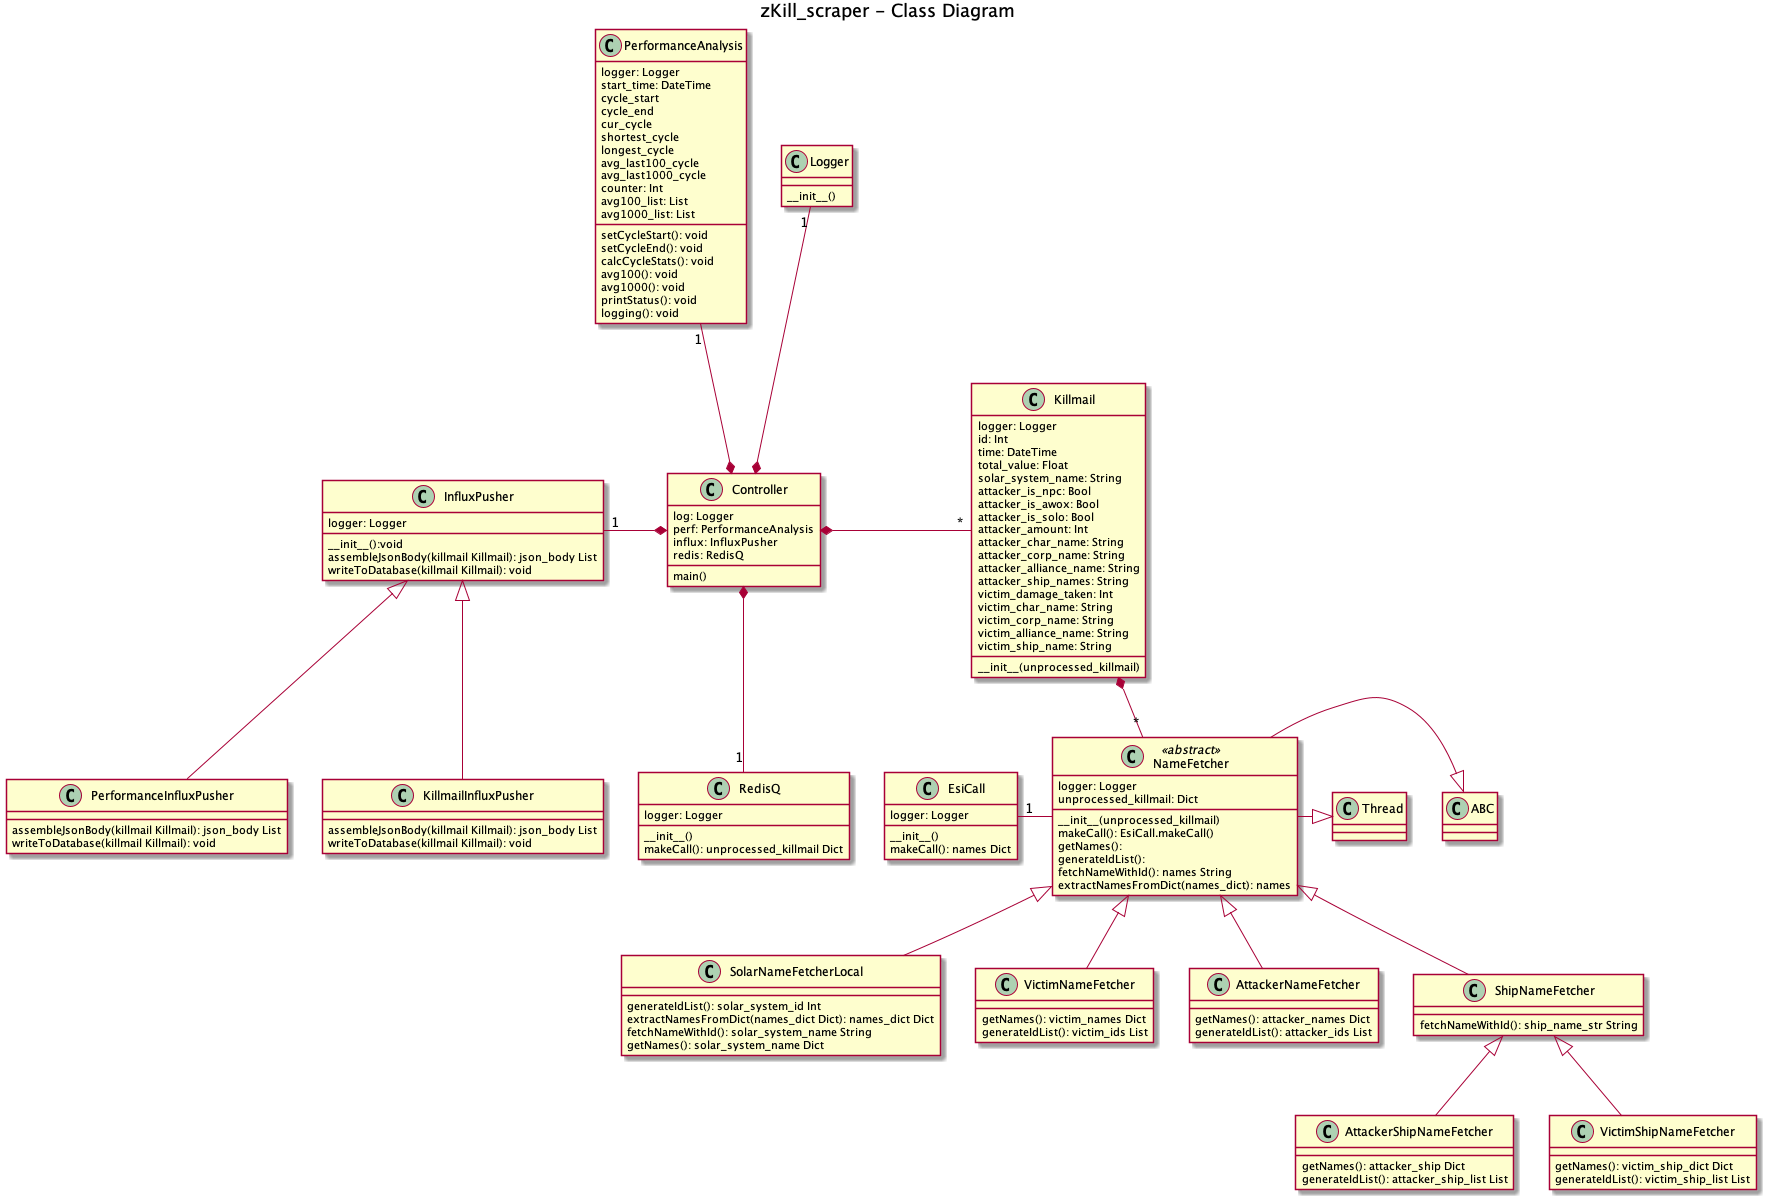
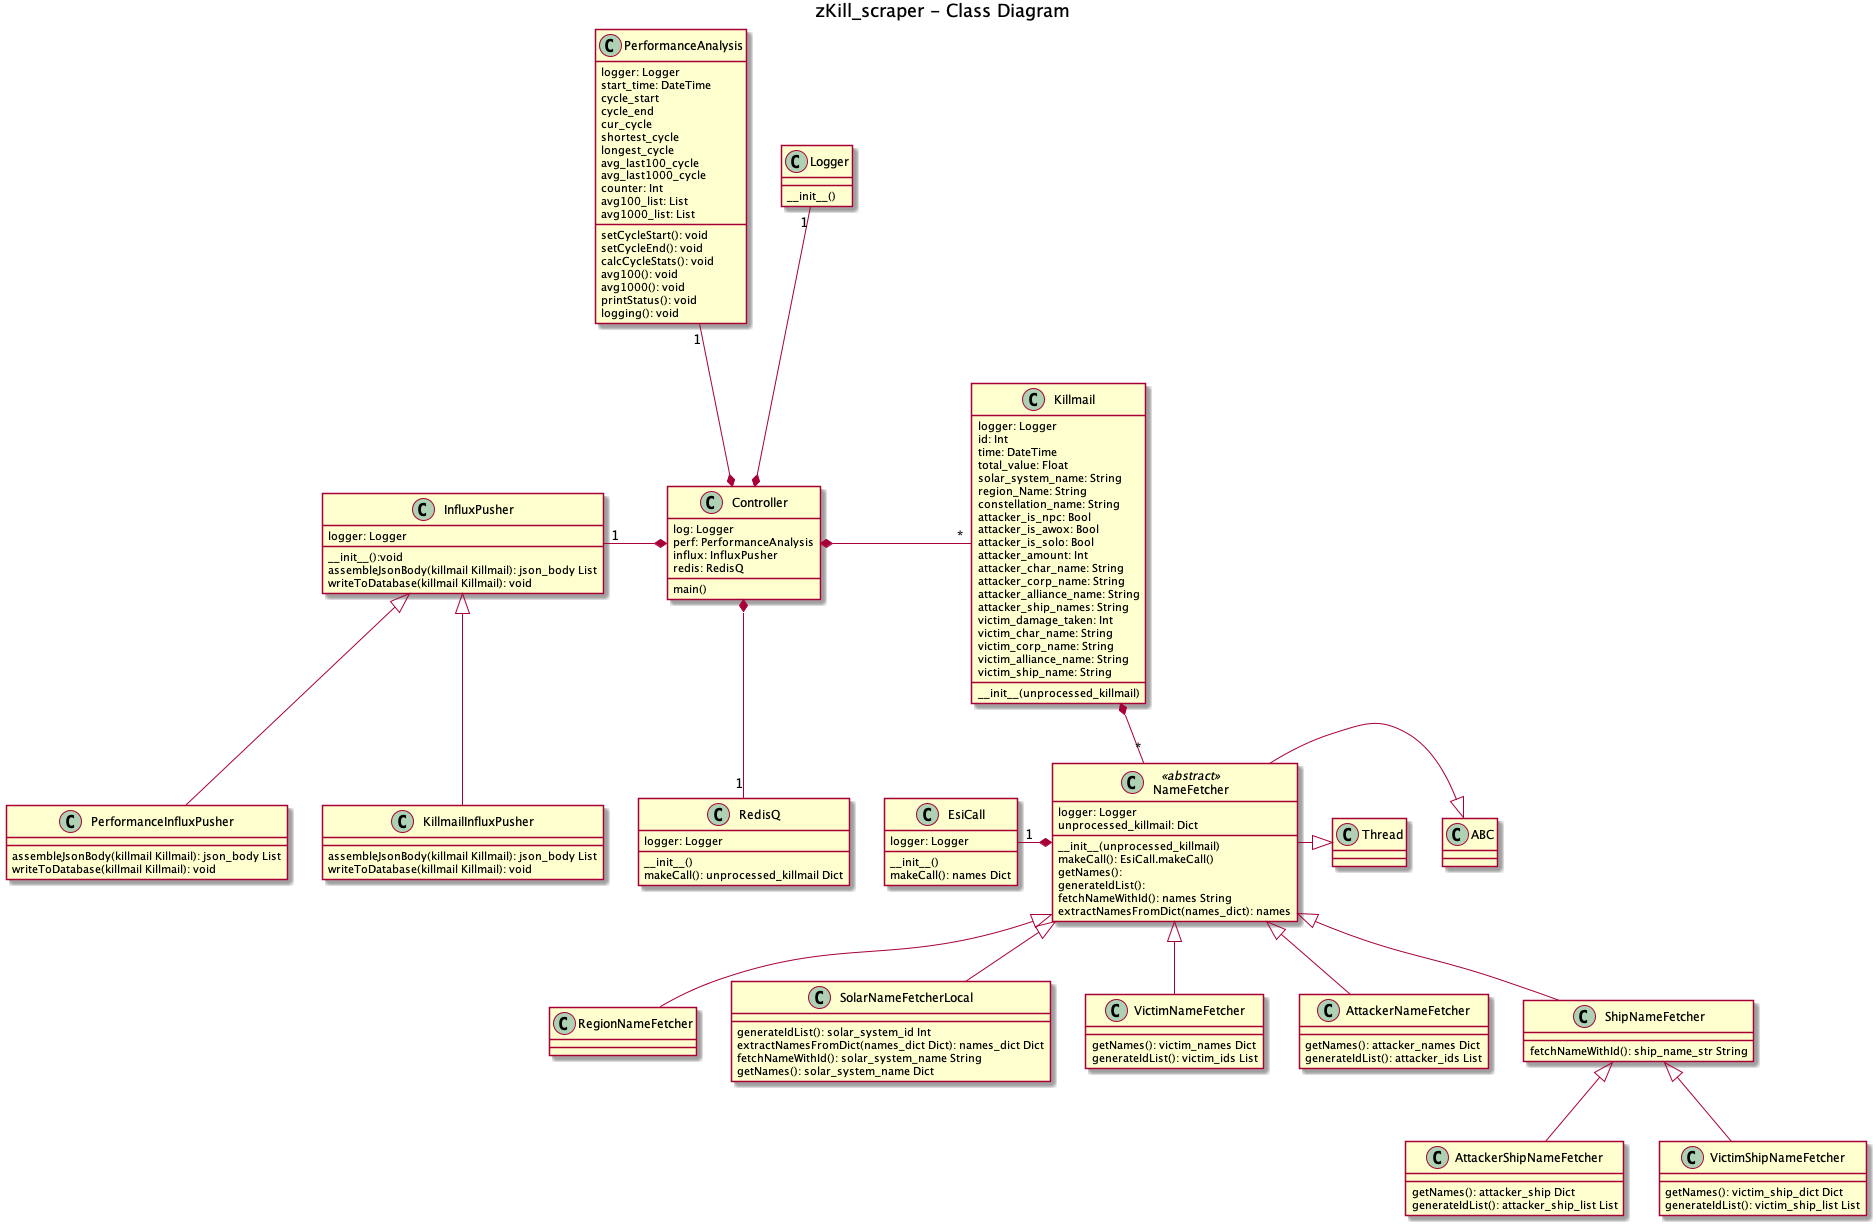
added region_name and constellation_name to Killmail object

diff --git a/killmail.py b/killmail.py
@@ -6,6 +6,7 @@ from attacker_name_fetcher import AttackerNameFetcher
 from victim_ship_name_fetcher import VictimShipNameFetcher
 from attacker_ship_name_fetcher import AttackerShipNameFetcher
 from solar_system_name_fetcher_local import SolarSystemNameFetcherLocal
+from region_name_fetcher import RegionNameFetcher
 
 
 
@@ -42,12 +43,14 @@ class Killmail:
         thread3 = Thread(name="victim_ship", target=lambda q, arg1: q.put(VictimShipNameFetcher(unprocessed_killmail).getNames()), args=(que, "a"))
         thread4 = Thread(name="victim_names", target=lambda q, arg1: q.put(VictimNameFetcher(unprocessed_killmail).getNames()), args=(que, "thread"))
         thread5 = Thread(name="solar_name", target=lambda q, arg1: q.put(SolarSystemNameFetcherLocal(unprocessed_killmail).getNames()), args=(que, "!"))
+        thread6 = Thread(name="region_name", target=lambda q, arg1: q.put(RegionNameFetcher(unprocessed_killmail).getNames()), args=(que, "?"))
 
         my_threads.append(thread1)
         my_threads.append(thread2)
         my_threads.append(thread3)
         my_threads.append(thread4)
         my_threads.append(thread5)
+        my_threads.append(thread6)
 
         for entry in my_threads:
             entry.start()
@@ -58,7 +61,7 @@ class Killmail:
             self.logger.debug("{} joined".format(entry))
 
         local_queue = []
-        for x in range(0, 5):
+        for x in range(0, 6):
             local_queue.append(que.get())
 
         self.logger.debug("local_queue: {}".format(local_queue))
@@ -76,6 +79,11 @@ class Killmail:
                 self.victim_names = entry["name"]
             if entry["category"] is "solar_name":
                 self.solar_system_name = entry["name"]
+            if entry["category"] is "region_name":
+                self.region_names = entry["name"]
+
+        self.region_name = self.region_names[0]["name"]
+        self.constellation_name = self.region_names[1]["name"]
 
         self.victim_char_name = self.victim_names["character"]
         self.victim_corp_name = self.victim_names["corporation"]
@@ -94,3 +102,5 @@ class Killmail:
         self.logger.info("Victim Char: {}, Corp: {}, Alli: {}".format(self.victim_char_name, self.victim_corp_name, self.victim_alliance_name))
         self.logger.info("Victim Ship: {}".format(self.victim_ship_name))
         self.logger.info("Solar Name: {}".format(self.solar_system_name))
+        self.logger.info("Region Name: {}".format(self.region_name))
+        self.logger.info("Constellation Name: {}".format(self.constellation_name))

diff --git a/region_name_fetcher.py b/region_name_fetcher.py
@@ -1,0 +1,25 @@
+from name_fetcher import NameFetcher
+import os
+import csv
+
+
+class RegionNameFetcher(NameFetcher):
+
+    def generateIdList(self):
+        region_id = ""
+        constellation_id = ""
+
+        filepath = os.path.dirname(__file__) + "/ressources/mapSolarSystems.csv"
+        with open(filepath, newline='') as f:
+            inv_types = csv.reader(f)
+            for row in inv_types:
+                if row[2] == str(self.unprocessed_killmail["package"]["killmail"]["solar_system_id"]):
+                    region_id = row[0]
+                    constellation_id = row[1]
+
+        return [region_id, constellation_id]
+
+    def getNames(self):
+        names_dict = self.fetchNameWithId()
+        names = {"category": "region_name", "name": names_dict}
+        return names

diff --git a/solar_system_name_fetcher_local.py b/solar_system_name_fetcher_local.py
@@ -5,9 +5,6 @@ import csv
 
 class SolarSystemNameFetcherLocal(NameFetcher):
 
-    def __init__(self, unprocessed_killmail):
-        NameFetcher.__init__(self, unprocessed_killmail)
-
     def generateIdList(self):
         solar_system_id = ""
 
@@ -27,7 +24,6 @@ class SolarSystemNameFetcherLocal(NameFetcher):
             for row in inv_types:
                 if row[2] == str(system_id):
                     system_name = row[3]
-                    region_id = row[0]
 
         self.logger.debug("Solar name list: {}".format(system_name))
         self.logger.debug("solar_name_str: {}".format(system_name))

diff --git a/killmail_influx_pusher.py b/killmail_influx_pusher.py
@@ -8,6 +8,8 @@ class KillmailInfluxPusher(InfluxPusher):
         json_body = [{"measurement": "kills",
             "tags": {
                     "solar_system_name": killmail.solar_system_name,
+                    "region_name": killmail.region_name,
+                    "constellation_name": killmail.constellation_name,
                     "attacker_is_npc": killmail.attacker_is_npc,
                     "attacker_is_solo": killmail.attacker_is_solo,
                     "attacker_is_awox": killmail.attacker_is_awox,

diff --git a/victim_ship_name_fetcher.py b/victim_ship_name_fetcher.py
@@ -3,9 +3,6 @@ from ship_name_fetcher import ShipNameFetchter
 
 class VictimShipNameFetcher(ShipNameFetchter):
 
-    def __init__(self, unprocessed_killmail):
-        ShipNameFetchter.__init__(self, unprocessed_killmail)
-
     def generateIdList(self):
         victim_ship_list = list()
         

diff --git a/attacker_ship_name_fetcher.py b/attacker_ship_name_fetcher.py
@@ -3,9 +3,6 @@ from ship_name_fetcher import ShipNameFetchter
 
 class AttackerShipNameFetcher(ShipNameFetchter):
 
-    def __init__(self, unprocessed_killmail):
-        ShipNameFetchter.__init__(self, unprocessed_killmail)
-
     def generateIdList(self):
         attacker_ship_list = list()
 

diff --git a/attacker_name_fetcher.py b/attacker_name_fetcher.py
@@ -3,9 +3,6 @@ from name_fetcher import NameFetcher
 
 class AttackerNameFetcher(NameFetcher):
 
-    def __init__(self, unprocessed_killmail):
-        NameFetcher.__init__(self, unprocessed_killmail)
-
     def generateIdList(self):
         attacker_ids = []
 

diff --git a/victim_name_fetcher.py b/victim_name_fetcher.py
@@ -3,9 +3,6 @@ from name_fetcher import NameFetcher
 
 class VictimNameFetcher(NameFetcher):
 
-    def __init__(self, unprocessed_killmail):
-        NameFetcher.__init__(self, unprocessed_killmail)
-
     def generateIdList(self):
         victim_ids = []
 
